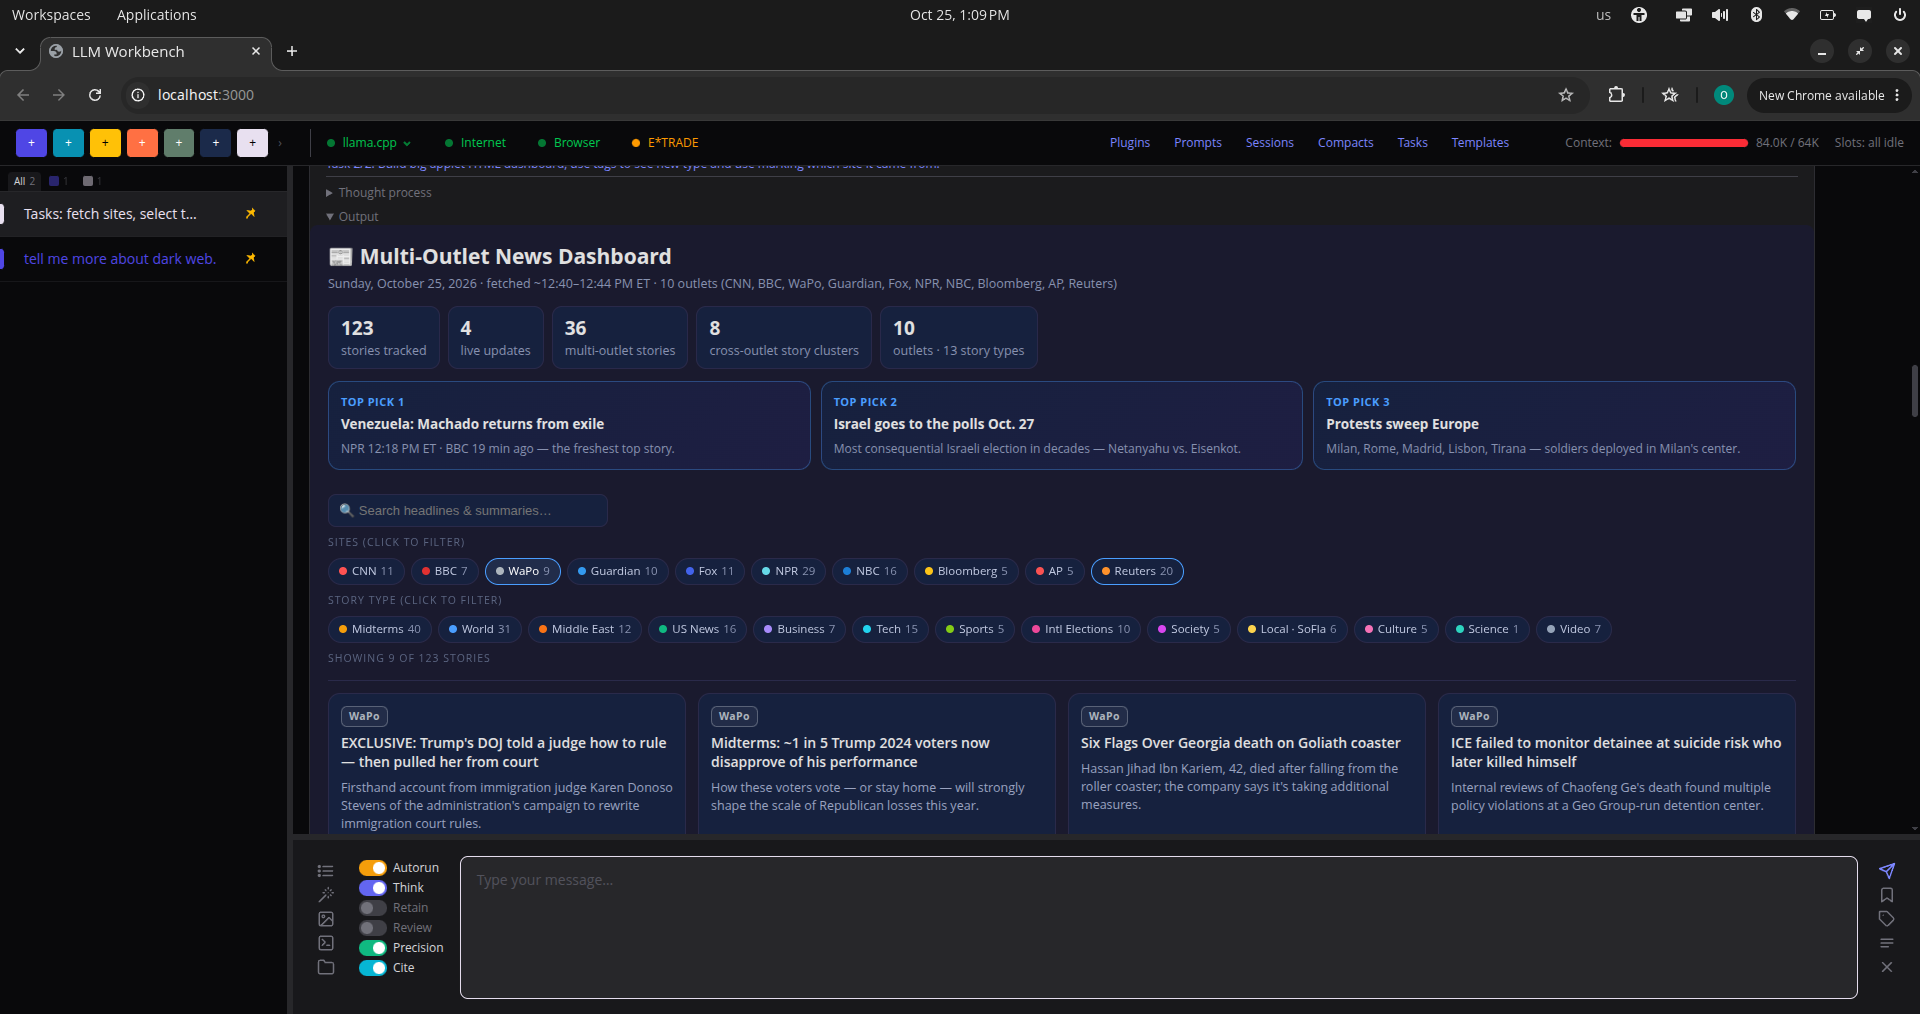
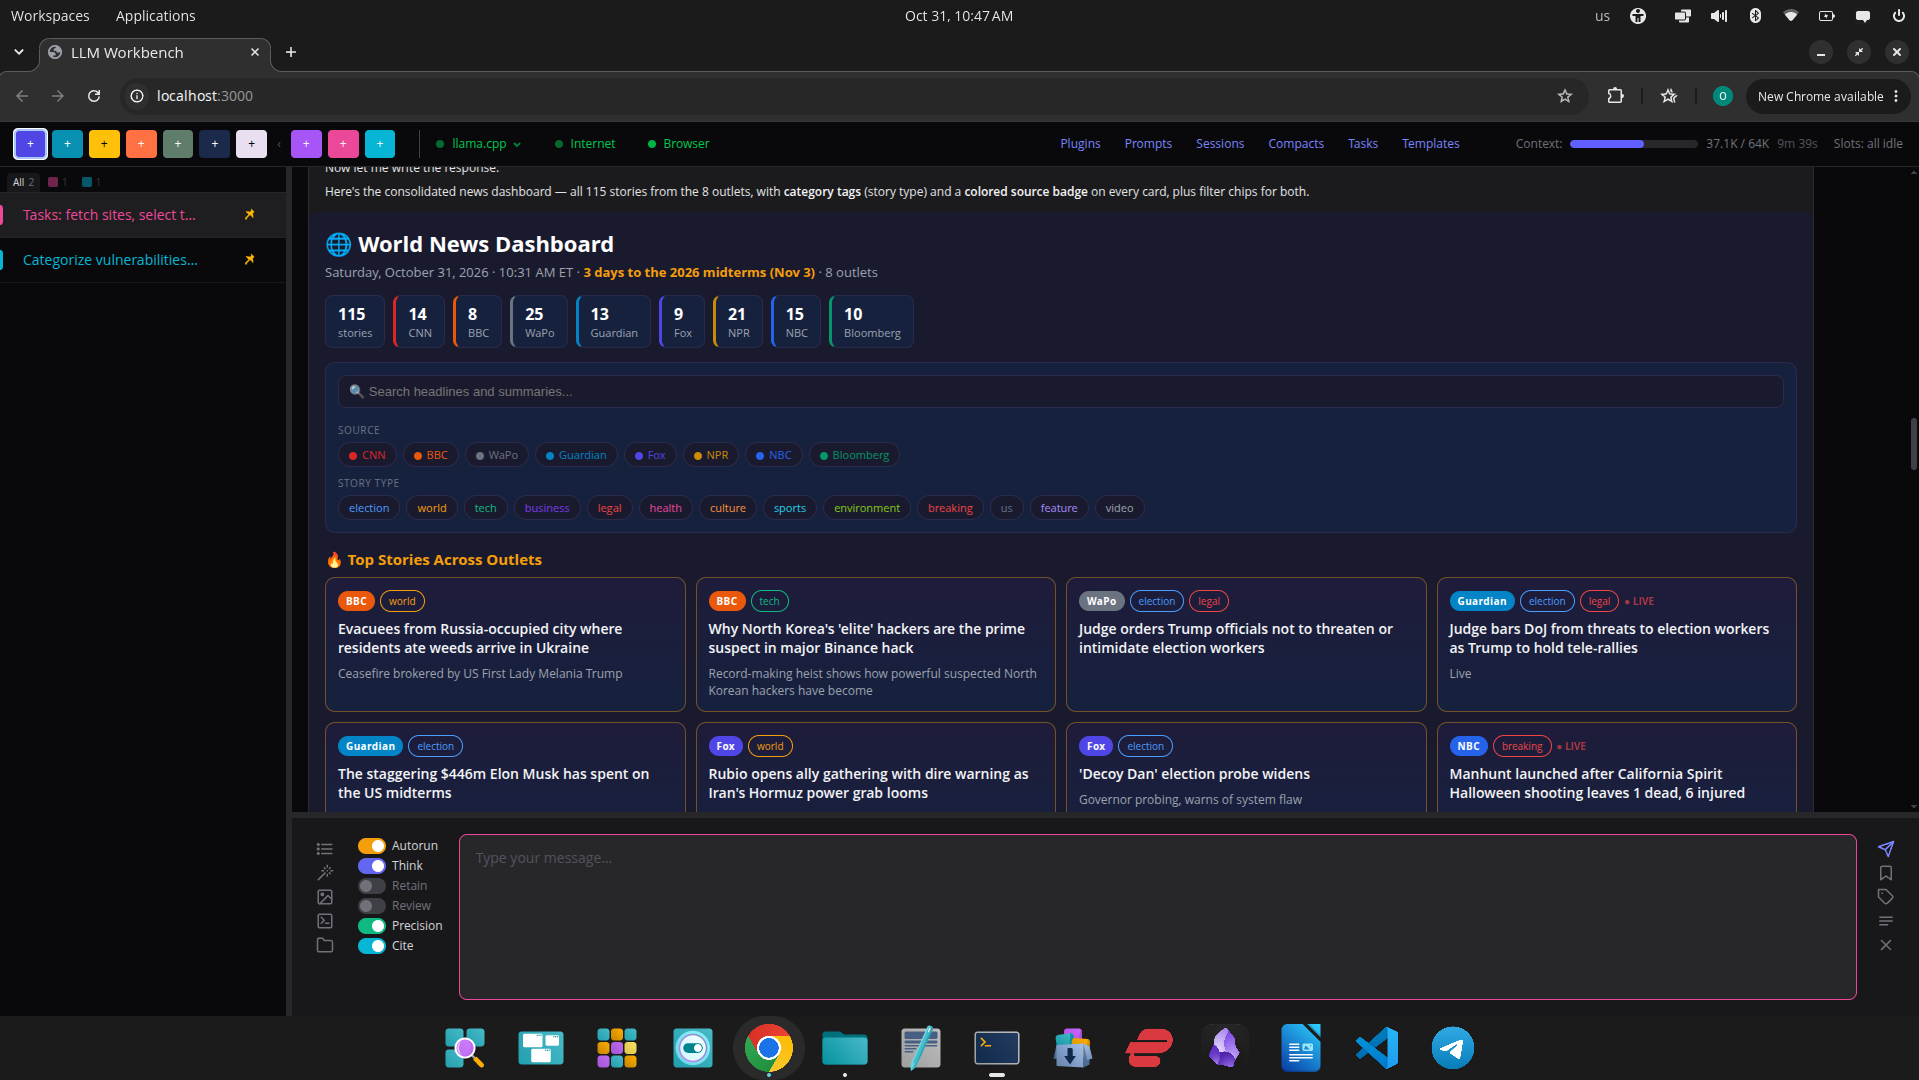
docs: one README screenshot — the full app with the news dashboard

diff --git a/README.md b/README.md
@@ -2,10 +2,8 @@
 
 > A local-first AI workbench. Chat with your own LLM, point it at your codebase, your portfolio, the web, your travel plans — and let it do the work end to end.
 
-![lumispec.ai](Screenshot1.png)
-
 <p align="center">
-  <img src="Screenshot3.png" width="700" alt="LLM Workbench showing the World News Dashboard applet built from eight outlets fetched through Browser Search">
+  <img src="Screenshot1.png" alt="LLM Workbench showing the World News Dashboard applet built from eight outlets fetched through Browser Search">
   <br><sub>A task pipeline fetches eight outlets through Browser Search (<code>web_fetch</code> in a hidden tab of your own Chrome), and the model renders all 115 stories as an inline HTML applet with source badges, topic tags and filter chips.</sub>
 </p>
 
